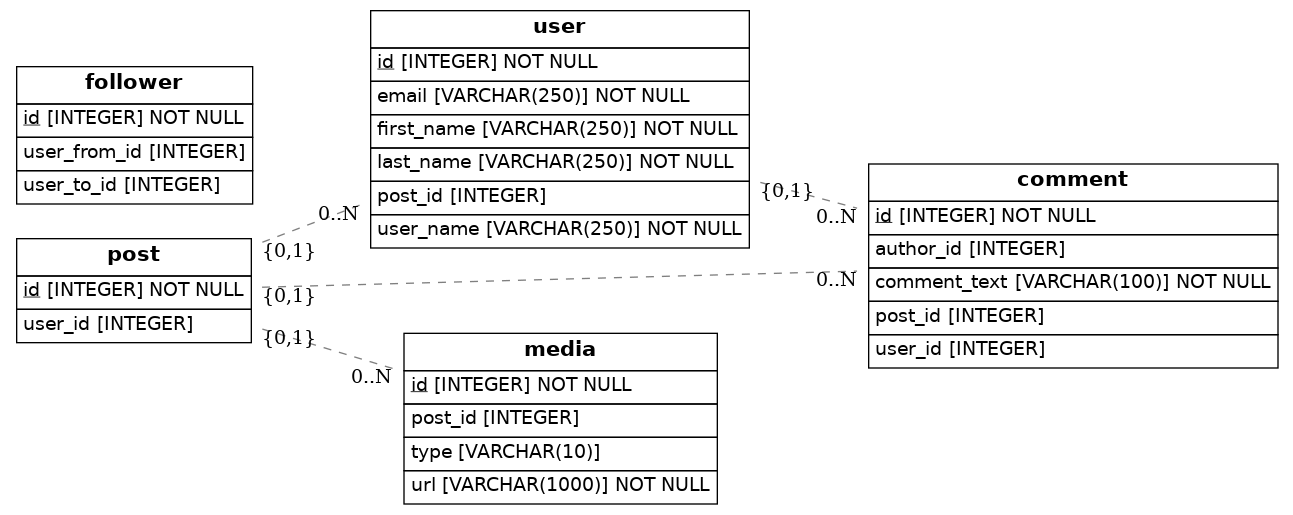
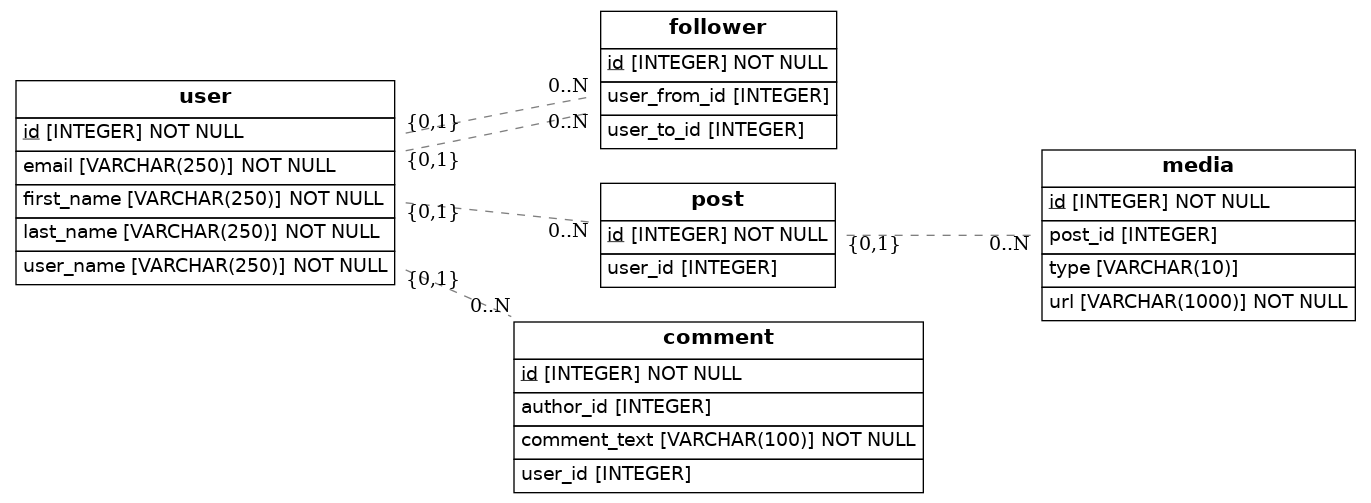
Reviewed relations and foreign keys

Changed region(s): [[0.0, 0.0, 0.9899, 0.9841]]

diff --git a/src/models.py b/src/models.py
@@ -16,7 +16,7 @@ class User(Base):
     first_name = Column(String(250), nullable=False)
     last_name = Column(String(250), nullable=False)
     email = Column(String(250), nullable=False)
-    post_id = Column(Integer, ForeignKey('post.id'))
+    
 
 
 class Follower(Base):
@@ -24,16 +24,16 @@ class Follower(Base):
     # Here we define columns for the table address.
     # Notice that each column is also a normal Python instance attribute.
     id = Column(Integer, primary_key=True)
-    user_from_id = Column(Integer, ForeignKey('user_id'))
-    user_to_id = Column(Integer, ForeignKey('user_id'))
-    user = relationship(User)
+    user_from_id = Column(Integer, ForeignKey('user.id'))
+    user_to_id = Column(Integer, ForeignKey('user.id'))
+  
 
 class Post(Base):
     __tablename__ = 'post'
     # Here we define columns for the table address.
     # Notice that each column is also a normal Python instance attribute.
     id = Column(Integer, primary_key=True)
-    user_id = Column(Integer, ForeignKey('user_id'))
+    user_id = Column(Integer, ForeignKey('user.id'))  # Foreign key referencing User table
     user = relationship(User)    
 
 class Media(Base):
@@ -53,7 +53,6 @@ class Comment(Base):
     id = Column(Integer, primary_key=True)
     comment_text  = Column(String(100), nullable=False)
     author_id = Column(Integer, ForeignKey('author.id'))
-    post_id = Column(Integer, ForeignKey('post.id'))
     user_id = Column(Integer, ForeignKey('user.id'))
     post = relationship(Post)    
 
